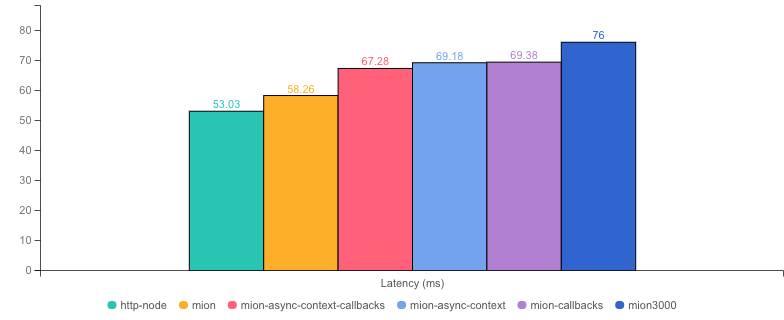
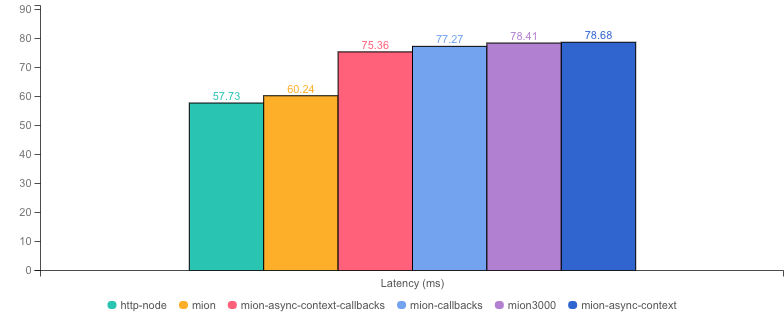
run latest version https://github.com/MionKit/mion/pull/52

diff --git a/_compiled-apps/apps/src/mionApp.js b/_compiled-apps/apps/src/mionApp.js
@@ -12,6 +12,7 @@ Object.defineProperty(exports, "__esModule", { value: true });
 exports.addRoutes = exports.initHttp = exports.routesWithAsyncCallContext = exports.routes = exports.logAsyncCallContext = exports.updateUserNoAppOrContext = exports.updateUser = exports.mionSayHelloRoute = exports.__ΩShared = exports.shared = void 0;
 const { __ΩSayHello } = require("./models");
 const { __ΩUser } = require("./models");
+const { __ΩHttpOptions } = require("@mionkit/http");
 function __assignType(fn, args) {
     fn.__type = args;
     return fn;
@@ -46,8 +47,8 @@ exports.routesWithAsyncCallContext = {
     logAsyncCallContext: exports.logAsyncCallContext,
 };
 exports.initHttp = __assignType((options) => {
-    return (http_1.initHttpRouter.Ω = [[() => __ΩShared, 'n!']], (0, http_1.initHttpRouter)(undefined, options));
-}, [() => __ΩPartial, 'options', '', 'P"o!"2"8"/#']);
+    return (0, http_1.initHttpRouter)(options);
+}, [() => __ΩPartial, () => __ΩHttpOptions, 'options', '', 'Pn"o!"2#8"/$']);
 var router_2 = require("@mionkit/router");
 Object.defineProperty(exports, "addRoutes", { enumerable: true, get: function () { return router_2.registerRoutes; } });
 //# sourceMappingURL=mionApp.js.map

diff --git a/_compiled-apps/apps/src/mionApp.d.ts b/_compiled-apps/apps/src/mionApp.d.ts
@@ -1,4 +1,5 @@
-import { type RouterOptions, type Routes, type Route } from "@mionkit/router";
+import { HttpOptions } from "@mionkit/http";
+import { type Routes, type Route } from "@mionkit/router";
 import { User } from "./models";
 export declare const shared: {};
 export type Shared = typeof SharedArrayBuffer;
@@ -10,7 +11,7 @@ export declare const logAsyncCallContext: (name: string) => {
 };
 export declare const routes: Routes;
 export declare const routesWithAsyncCallContext: Routes;
-export declare const initHttp: (options?: Partial<RouterOptions>) => Promise<void>;
+export declare const initHttp: (options?: Partial<HttpOptions>) => void;
 export { registerRoutes as addRoutes } from "@mionkit/router";
 export declare type __ΩShared = any[];
 //# sourceMappingURL=mionApp.d.ts.map

diff --git a/apps/src/mionApp.ts b/apps/src/mionApp.ts
@@ -5,7 +5,7 @@
  * The software is provided "as is", without warranty of any kind.
  * ######## */
 
-import { initHttpRouter } from "@mionkit/http";
+import { HttpOptions, initHttpRouter } from "@mionkit/http";
 import {
   type RouterOptions,
   type Routes,
@@ -46,8 +46,8 @@ export const routesWithAsyncCallContext: Routes = {
   logAsyncCallContext: logAsyncCallContext as any,
 };
 
-export const initHttp = (options?: Partial<RouterOptions>) => {
-  return initHttpRouter<Shared>(undefined, options);
+export const initHttp = (options?: Partial<HttpOptions>) => {
+  return initHttpRouter(options);
 };
 
 export { registerRoutes as addRoutes } from "@mionkit/router";

diff --git a/benchmarks/mion-async-context-callbacks.js b/benchmarks/mion-async-context-callbacks.js
@@ -10,7 +10,6 @@ const { startHttpServer } = require("@mionkit/http");
 // ###### check the apps/ directory for the original non compiled code
 // mion needs to be compiled from typescript to be able to generate runtime types metadata
 
-initHttp({ useAsyncCallContext: true });
+initHttp({ useAsyncCallContext: true, port: 3000, useCallbacks: true });
 addRoutes(routesWithAsyncCallContext);
-
-startHttpServer({ port: 3000, useCallbacks: true });
+startHttpServer();

diff --git a/benchmarks/mion-async-context.js b/benchmarks/mion-async-context.js
@@ -10,7 +10,6 @@ const { startHttpServer } = require("@mionkit/http");
 // ###### check the apps/ directory for the original non compiled code
 // mion needs to be compiled from typescript to be able to generate runtime types metadata
 
-initHttp({ useAsyncCallContext: true });
+initHttp({ useAsyncCallContext: true, port: 3000 });
 addRoutes(routesWithAsyncCallContext);
-
-startHttpServer({ port: 3000 });
+startHttpServer();

diff --git a/benchmarks/mion-callbacks.js b/benchmarks/mion-callbacks.js
@@ -11,7 +11,7 @@ const { startHttpServer } = require("@mionkit/http");
 // ###### check the apps/ directory for the original non compiled code
 // mion needs to be compiled from typescript to be able to generate runtime types metadata
 
-initHttp({});
+initHttp({ port: 3000, useCallbacks: true });
 addRoutes(routes);
 
-startHttpServer({ port: 3000, useCallbacks: true });
+startHttpServer();

diff --git a/benchmarks/mion.js b/benchmarks/mion.js
@@ -10,7 +10,6 @@ const { startHttpServer } = require("@mionkit/http");
 // ###### check the apps/ directory for the original non compiled code
 // mion needs to be compiled from typescript to be able to generate runtime types metadata
 
-initHttp({});
+initHttp({ port: 3000 });
 addRoutes(routes);
-
-startHttpServer({ port: 3000 });
+startHttpServer();

diff --git a/benchmarks/mion3000.js b/benchmarks/mion3000.js
@@ -20,7 +20,6 @@ for (let i = 0; i < totalRoutes; ++i) {
   routerRoutes[`route-${i}`] = defaultRoute;
 }
 
-initHttp({});
+initHttp({ port: 3000 });
 addRoutes(routes);
-
-startHttpServer({ port: 3000 });
+startHttpServer();

diff --git a/README.md b/README.md
@@ -41,7 +41,7 @@ npm run report
 ### Cold start benchmarks
 
 - **Cold start times:** [METRICS.md](METRICS.md)  
-  Cold start times are also indicative of how the [serverless version](https://github.com/MionKit/mion/tree/master/packages/serverless) could perform in this regard, as both `@MionKit/http` an `@MionKit/serverless` are just a wrapper around `@MionKit/router` which contains all the logic.
+  Cold start times are also indicative of how the [serverless version](https://github.com/MionKit/mion/tree/master/packages/serverless) could perform in this regard, as both `@MionKit/http` an `@MionKit/serverless` are just a wrapper around `@MionKit/router` which contains all the logic. This is a metric we want to focus as fast cold starts are essential for serverless environments.
 
 ### Mion settings benchmarks
 
@@ -95,37 +95,47 @@ This said it is the baseline memory which is a bit Higher (when the code gets lo
 
 ## Benchmark Results
 
-- **Machine:** darwin x64 | 8 vCPUs | 16.0GB Mem
-- **Node:** `v16.18.0`
-- **Run:** Sat Jul 22 2023 12:58:06 GMT+0100 (Irish Standard Time)
-- **Method:** `autocannon -c 100 -d 40.02 -p 10 localhost:3000` (two rounds; one to warm-up, one to measure)
+* __Machine:__ darwin x64 | 8 vCPUs | 16.0GB Mem
+* __Node:__ `v16.18.0`
+* __Run:__ Sat Jul 22 2023 19:27:35 GMT+0100 (Irish Standard Time)
+* __Method:__ `autocannon -c 100 -d 40.03 -p 10 localhost:3000` (two rounds; one to warm-up, one to measure)
 
-#### Req (R/s)
+#### Req (R/s) 
 
 ![benchmarks](assets/public/charts-servers/requests.png)
 
-#### Throughput (Mb/s)
+
+
+#### Throughput (Mb/s) 
 
 ![benchmarks](assets/public/charts-servers/throughput.png)
 
-#### Latency (ms)
+
+
+#### Latency (ms) 
 
 ![benchmarks](assets/public/charts-servers/latency.png)
 
-#### Max Memory (Mb)
+
+
+#### Max Memory (Mb) 
 
 ![benchmarks](assets/public/charts-servers/maxMem.png)
 
-#### Memory Series (MB)
+
+
+#### Memory Series (MB) 
 
 ![benchmarks](assets/public/charts-servers/memSeries.png)
 
-|           |        Version | Router |  Req (R/s)  | Latency (ms) | Output (Mb/s) | Max Memory (Mb) | Max Cpu (%) | Validation | Description                                                                                                |
-| :-------- | -------------: | -----: | :---------: | -----------: | ------------: | --------------: | ----------: | :--------: | :--------------------------------------------------------------------------------------------------------- |
-| http-node |        16.18.0 |      ✗ |   18162.1   |        54.54 |          4.64 |              77 |         119 |     ✗      | Super basic and completely useless bare http server, should be the theoretical upper limit in performance. |
-| fastify   |         4.19.2 |      ✓ |   16392.5   |        60.47 |          4.21 |              91 |         120 |     -      | Validation is done using schemas and ajv. Schemas must be generated manually or using third party tools.   |
-| **mion**  |      **0.1.0** |  **✓** | **16337.7** |    **60.71** |      **4.53** |         **155** |     **142** |   **✓**    | **validation and serialization out of the box**                                                            |
-| restify   |          8.6.1 |      ✓ |   11917.0   |        83.37 |          3.07 |              95 |         101 |     ✗      | Requires third party tools.                                                                                |
-| hapi      |         20.3.0 |      ✓ |   7964.1    |       124.92 |          2.04 |              99 |         128 |     ✗      | Manual validation using joi, or third party tools.                                                         |
-| deepkit   | 1.0.1-alpha.75 |      ✓ |   5451.3    |       182.63 |          1.39 |             289 |         139 |     ✓      | Automatic validation out of the box (The ones that made @deepkit/types), Their rpc is way more performant. |
-| express   |         4.18.2 |      ✓ |   4575.4    |       217.56 |          1.17 |             116 |         124 |     ✗      | needs third party tools, or third party tools                                                              |
+
+
+|           | Version        | Router | Req (R/s)   | Latency (ms) | Output (Mb/s) | Max Memory (Mb) | Max Cpu (%) | Validation | Description                                                                                                |
+| :--       | --:            | --:    | :-:         | --:          | --:           | --:             | --:         | :-:        | :--                                                                                                        |
+| http-node | 16.18.0        | ✗      | 17889.7     | 55.39        | 4.57          | 82              | 121         | ✗          | Super basic and completely useless bare http server, should be the theoretical upper limit in performance. |
+| **mion**  | **0.1.0**      | **✓**  | **16562.7** | **59.88**    | **4.60**      | **151**         | **144**     | **✓**      | **validation and serialization out of the box**                                                            |
+| fastify   | 4.19.2         | ✓      | 15821.5     | 62.69        | 4.06          | 90              | 125         | -          | Validation is done using schemas and ajv. Schemas must be generated manually or using third party tools.   |
+| restify   | 8.6.1          | ✓      | 12050.4     | 82.43        | 3.10          | 103             | 115         | ✗          | Requires third party tools.                                                                                |
+| hapi      | 20.3.0         | ✓      | 7923.9      | 125.55       | 2.03          | 94              | 130         | ✗          | Manual validation using joi, or third party tools.                                                         |
+| deepkit   | 1.0.1-alpha.75 | ✓      | 5470.6      | 181.95       | 1.40          | 281             | 129         | ✓          | Automatic validation out of the box (The ones that made @deepkit/types), Their rpc is way more performant. |
+| express   | 4.18.2         | ✓      | 4581.4      | 217.26       | 1.17          | 111             | 125         | ✗          | needs third party tools, or third party tools                                                              |

diff --git a/MION-OPTIONS.md b/MION-OPTIONS.md
@@ -28,8 +28,8 @@ We show the benchmarks and let you take your own conclusions!!
 
 * __Machine:__ darwin x64 | 8 vCPUs | 16.0GB Mem
 * __Node:__ `v16.18.0`
-* __Run:__ Sat Jul 22 2023 12:50:59 GMT+0100 (Irish Standard Time)
-* __Method:__ `autocannon -c 100 -d 40.02 -p 10 localhost:3000` (two rounds; one to warm-up, one to measure)
+* __Run:__ Sat Jul 22 2023 19:37:36 GMT+0100 (Irish Standard Time)
+* __Method:__ `autocannon -c 100 -d 40.03 -p 10 localhost:3000` (two rounds; one to warm-up, one to measure)
 
 #### Req (R/s) 
 
@@ -55,12 +55,6 @@ We show the benchmarks and let you take your own conclusions!!
 
 
 
-#### Max Cpu (%) 
-
-![benchmarks](assets/public/charts-mion/maxCpu.png)
-
-
-
 #### Memory Series (MB) 
 
 ![benchmarks](assets/public/charts-mion/memSeries.png)
@@ -69,9 +63,9 @@ We show the benchmarks and let you take your own conclusions!!
 
 |                              | Version   | Router | Req (R/s)   | Latency (ms) | Output (Mb/s) | Max Memory (Mb) | Max Cpu (%) | Validation | Description                                                                                     |
 | :--                          | --:       | --:    | :-:         | --:          | --:           | --:             | --:         | :-:        | :--                                                                                             |
-| http-node                    | 16.18.0   | ✗      | 18676.9     | 53.03        | 4.77          | 84              | 121         | ✗          | theoretical upper limit in performance.                                                         |
-| **mion**                     | **0.1.0** | **✓**  | **17021.1** | **58.26**    | **4.72**      | **147**         | **143**     | **✓**      | **using mion http with promises `HttpOptions.useCallbacks = false`**                            |
-| mion-async-context-callbacks | 0.1.0     | ✓      | 14749.6     | 67.28        | 4.68          | 93              | 135         | ✓          | using mion http with callbacks and sync call context `RouterOptions.useAsyncCallContext = true` |
-| mion-async-context           | 0.1.0     | ✓      | 14355.2     | 69.18        | 4.56          | 88              | 134         | ✓          | using mion http with promises and sync call context `RouterOptions.useAsyncCallContext = true`  |
-| mion-callbacks               | 0.1.0     | ✓      | 14301.8     | 69.38        | 4.54          | 91              | 134         | ✓          | using mion http with callbacks `HttpOptions.useCallbacks = true`                                |
-| mion3000                     | 0.1.0     | ✓      | 13065.0     | 76.00        | 4.15          | 148             | 138         | ✓          | mion with 3000 routes loaded (should have the most memory usage)                                |
+| http-node                    | 16.18.0   | ✗      | 17167.7     | 57.73        | 4.39          | 78              | 123         | ✗          | theoretical upper limit in performance.                                                         |
+| **mion**                     | **0.1.0** | **✓**  | **16468.3** | **60.24**    | **4.57**      | **151**         | **140**     | **✓**      | **using mion http with promises `HttpOptions.useCallbacks = false`**                            |
+| mion-async-context-callbacks | 0.1.0     | ✓      | 13176.2     | 75.36        | 4.18          | 141             | 139         | ✓          | using mion http with callbacks and sync call context `RouterOptions.useAsyncCallContext = true` |
+| mion-callbacks               | 0.1.0     | ✓      | 12853.8     | 77.27        | 4.08          | 143             | 137         | ✓          | using mion http with callbacks `HttpOptions.useCallbacks = true`                                |
+| mion3000                     | 0.1.0     | ✓      | 12664.6     | 78.41        | 4.02          | 145             | 134         | ✓          | mion with 3000 routes loaded (should have the most memory usage)                                |
+| mion-async-context           | 0.1.0     | ✓      | 12627.6     | 78.68        | 4.01          | 142             | 137         | ✓          | using mion http with promises and sync call context `RouterOptions.useAsyncCallContext = true`  |

diff --git a/COLD-STARTS.md b/COLD-STARTS.md
@@ -7,39 +7,40 @@ Cold start times are measure using the http server but are also indicative of ho
 - The `listen time` is the time it takes to parse and generate a flat router so there is no need to process the url when a request come in.
 
 ## Benchmark Results
+* __Machine:__ darwin x64 | 8 vCPUs | 16.0GB Mem
+* __Node:__ `v16.18.0`
+* __Run:__ Sat Jul 22 2023 19:37:21 GMT+0100 (Irish Standard Time)
+* __Method:__ `npm run metrics` (samples: 5)
+* __startup:__ time elapsed to setup the application
+* __listen:__ time elapsed until the http server is ready to accept requests (cold start)
 
-- **Machine:** darwin x64 | 8 vCPUs | 16.0GB Mem
-- **Node:** `v16.18.0`
-- **Run:** Sat Jul 22 2023 13:17:43 GMT+0100 (Irish Standard Time)
-- **Method:** `npm run metrics` (samples: 5)
-- **startup:** time elapsed to setup the application
-- **listen:** time elapsed until the http server is ready to accept requests (cold start)
-
-### Cold starts: listen time (ms) lower is better
+### Cold starts:  listen time (ms) lower is better 
 
 ![benchmarks](assets/public/charts/cold-starts.png)
 
-|                                | startup(ms) | listen(ms) |
-| ------------------------------ | ----------- | ---------- |
-| 10-startup-deepkit-routes.js   | 1467        | 1469       |
-| 10-startup-fastify-routes.js   | 164         | 242        |
-| 10-startup-mion-routes.js      | 79          | 88         |
-| 100-startup-deepkit-routes.js  | 1468        | 1470       |
-| 100-startup-fastify-routes.js  | 184         | 366        |
-| 100-startup-mion-routes.js     | 79          | 89         |
-| 500-startup-deepkit-routes.js  | 1450        | 1451       |
-| 500-startup-fastify-routes.js  | 279         | 866        |
-| 500-startup-mion-routes.js     | 82          | 95         |
-| 1000-startup-deepkit-routes.js | 1476        | 1478       |
-| 1000-startup-fastify-routes.js | 379         | 1485       |
-| 1000-startup-mion-routes.js    | 82          | 98         |
-| 2000-startup-deepkit-routes.js | 1628        | 1630       |
-| 2000-startup-fastify-routes.js | 623         | 2650       |
-| 2000-startup-mion-routes.js    | 80          | 112        |
-| 3000-startup-deepkit-routes.js | 1505        | 1507       |
-| 3000-startup-fastify-routes.js | 919         | 4024       |
-| 3000-startup-mion-routes.js    | 87          | 128        |
-| 5000-startup-deepkit-routes.js | 1500        | 1502       |
-| 5000-startup-fastify-routes.js | 1971        | 7043       |
-| 5000-startup-mion-routes.js    | 85          | 136        |
-| startup-listen.js              | 82          | 86         |
+
+
+  | | startup(ms) | listen(ms) |
+  |-| -           | -          |
+| 10-startup-deepkit-routes.js | 1380 | 1382 |
+| 10-startup-fastify-routes.js | 153 | 226 |
+| 10-startup-mion-routes.js | 75 | 83 |
+| 100-startup-deepkit-routes.js | 1384 | 1386 |
+| 100-startup-fastify-routes.js | 170 | 340 |
+| 100-startup-mion-routes.js | 74 | 84 |
+| 500-startup-deepkit-routes.js | 1372 | 1373 |
+| 500-startup-fastify-routes.js | 258 | 805 |
+| 500-startup-mion-routes.js | 74 | 87 |
+| 1000-startup-deepkit-routes.js | 1385 | 1387 |
+| 1000-startup-fastify-routes.js | 358 | 1382 |
+| 1000-startup-mion-routes.js | 75 | 91 |
+| 2000-startup-deepkit-routes.js | 1431 | 1433 |
+| 2000-startup-fastify-routes.js | 572 | 2466 |
+| 2000-startup-mion-routes.js | 75 | 105 |
+| 3000-startup-deepkit-routes.js | 1393 | 1395 |
+| 3000-startup-fastify-routes.js | 848 | 3718 |
+| 3000-startup-mion-routes.js | 77 | 116 |
+| 5000-startup-deepkit-routes.js | 1411 | 1413 |
+| 5000-startup-fastify-routes.js | 1821 | 6482 |
+| 5000-startup-mion-routes.js | 78 | 127 |
+| startup-listen.js | 78 | 83 |
